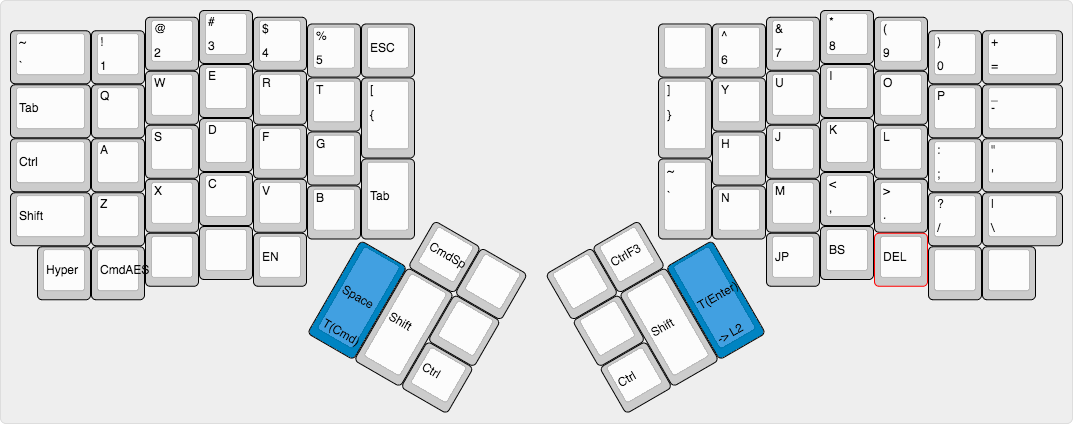
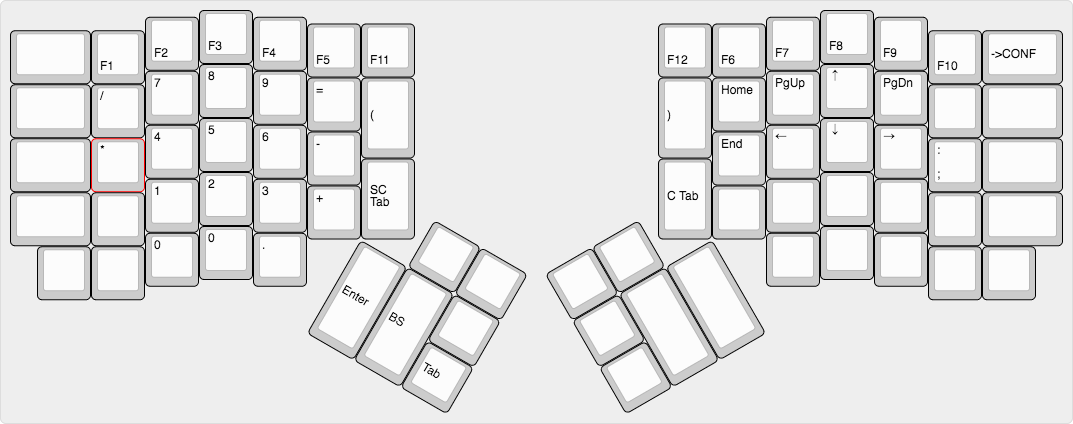
Add slash and * to num layer

diff --git a/keyboards/ergodox/keymaps/schwalski/keymap.c b/keyboards/ergodox/keymaps/schwalski/keymap.c
@@ -237,9 +237,9 @@ const uint16_t PROGMEM keymaps[][MATRIX_ROWS][MATRIX_COLS] = {
  * ,--------------------------------------------------.           ,--------------------------------------------------.
  * |        |  F1  |  F2  |  F3  |  F4  |  F5  |  F11 |           | F12  |  F6  |  F7  |  F8  |  F9  |  F10 | ->CNF  |
  * |--------+------+------+------+------+-------------|           |------+------+------+------+------+------+--------|
- * |        |      |  7   |  8   |  9   |  =   |  (   |           |  )   | Home | PgUp |  Up  | PgDn |      |        |
+ * |        |  /   |  7   |  8   |  9   |  =   |  (   |           |  )   | Home | PgUp |  Up  | PgDn |      |        |
  * |--------+------+------+------+------+------|      |           |      |------+------+------+------+------+--------|
- * |        |      |  4   |  5   |  6   |  -   |------|           |------| End  | Left | Down | Right|   :  |        |
+ * |        |  *   |  4   |  5   |  6   |  -   |------|           |------| End  | Left | Down | Right|   :  |        |
  * |--------+------+------+------+------+------|SC Tab|           | C Tab|------+------+------+------+------+--------|
  * |        |      |  1   |  2   |  3   |  +   |      |           |      |   6^ |   7& |   8* |   9( |   0) |        |
  * `--------+------+------+------+------+-------------'           `-------------+------+------+------+------+--------'
@@ -256,8 +256,8 @@ const uint16_t PROGMEM keymaps[][MATRIX_ROWS][MATRIX_COLS] = {
 [L_NUM] = KEYMAP(
     // left hand
     KC_TRNS,      KC_F1,          KC_F2,          KC_F3,          KC_F4,          KC_F5,            KC_F11,
-    KC_TRNS,      KC_TRNS,        KC_7,           KC_8,           KC_9,           KC_EQL,           KC_LPRN,
-    KC_TRNS,      KC_TRNS,        KC_4,           KC_5,           KC_6,           KC_MINS,
+    KC_TRNS,      KC_SLSH,        KC_7,           KC_8,           KC_9,           KC_EQL,           KC_LPRN,
+    KC_TRNS,      S(KC_8),        KC_4,           KC_5,           KC_6,           KC_MINS,
     KC_TRNS,      KC_TRNS,        KC_1,           KC_2,           KC_3,           S(KC_EQL),       SC(KC_TAB),
     KC_TRNS,      KC_TRNS,        KC_0,           KC_0,           KC_DOT,
 

diff --git a/keyboards/ergodox/keymaps/schwalski/readme.md b/keyboards/ergodox/keymaps/schwalski/readme.md
@@ -9,3 +9,10 @@ The image says it all:
 
 ![Default](layer0-layout.png)
 ![Default](layer1-layout.png)
+
+To update keymap...
+
+$ cd qmk_firmware/keyboards/ergodox
+$ make clean keymap=schwalski; and make keymap=schwalski
+$ make teensy keymap=schwalski
+<RESET ergodox>
